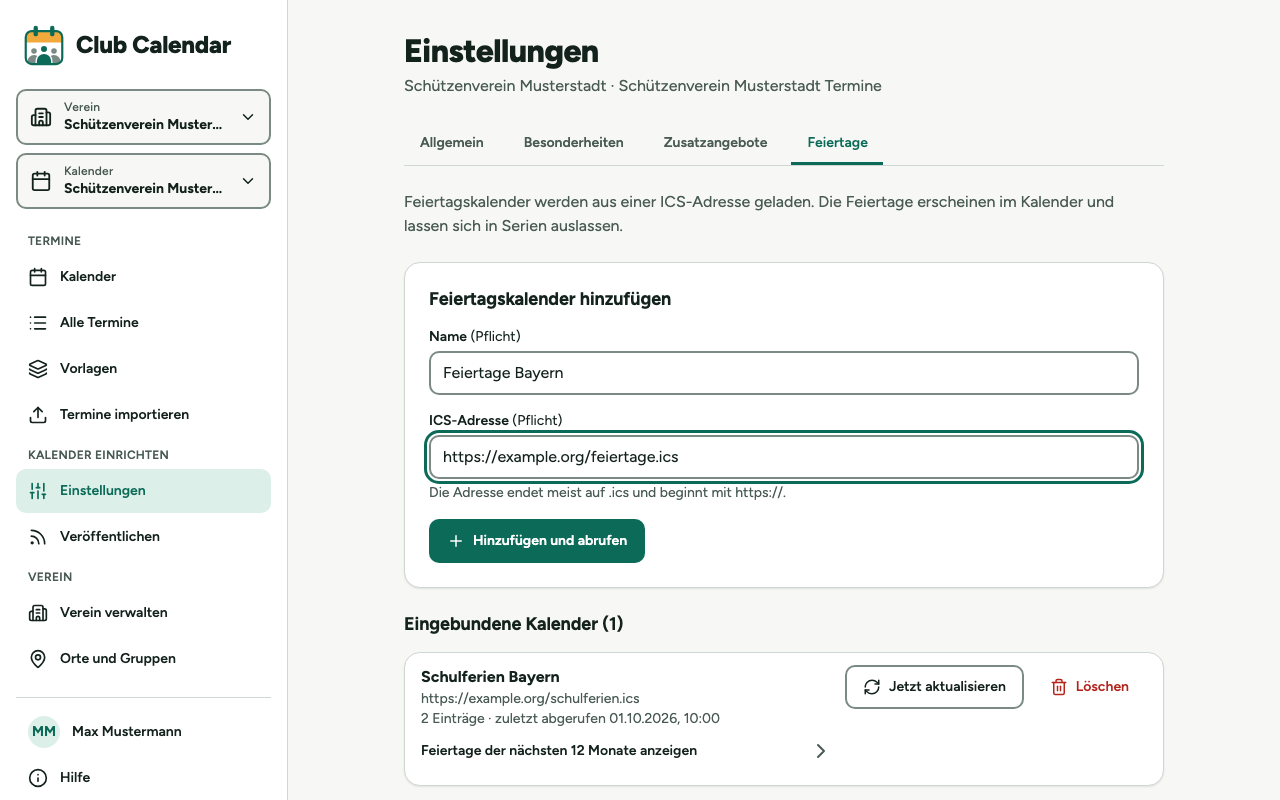
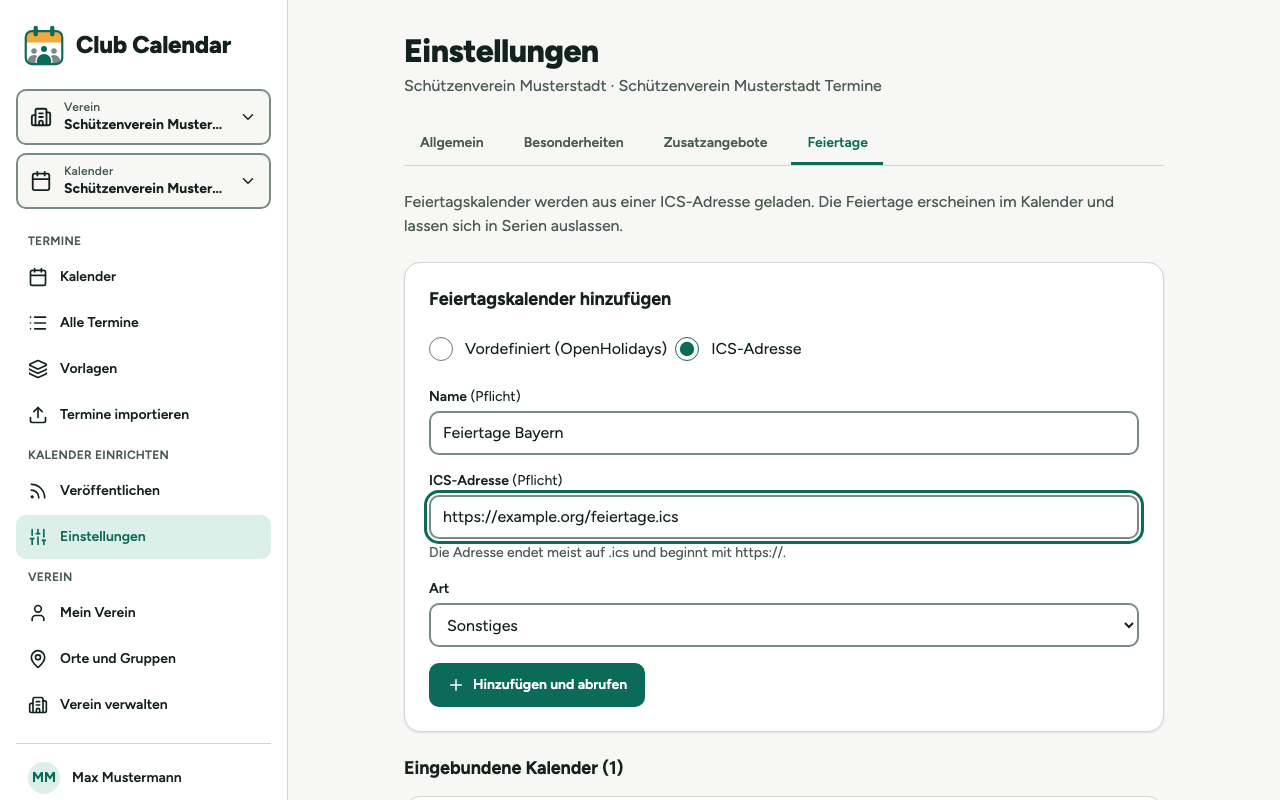
test(docs): select ICS mode in holidays-settings screenshot spec
The holiday form defaults to predefined mode since 0d279772, so name and
address fields only exist after choosing ICS-Adresse.

diff --git a/frontend/e2e/docs/organize.docs.ts b/frontend/e2e/docs/organize.docs.ts
@@ -272,11 +272,12 @@ for (const lang of LANGS) {
       await signIn(page, lang, s.email);
       await page.goto(`${s.base}/settings/holiday-calendars`);
       await expect(page.getByText("Schulferien Bayern").first()).toBeVisible();
+      await page.getByRole("radio", { name: tr("settings.holidays.modeIcs") }).check();
       await page
         .getByLabel(new RegExp(`^${esc(tr("settings.holidays.nameLabel"))}`))
         .fill(lang === "de" ? "Feiertage Bayern" : "Bavaria public holidays");
       await page
-        .getByLabel(new RegExp(`^${esc(tr("settings.holidays.urlLabel"))}`))
+        .getByRole("textbox", { name: new RegExp(`^${esc(tr("settings.holidays.urlLabel"))}`) })
         .fill("https://example.org/feiertage.ics");
       await shot(page, lang, "holidays-settings");
     });
